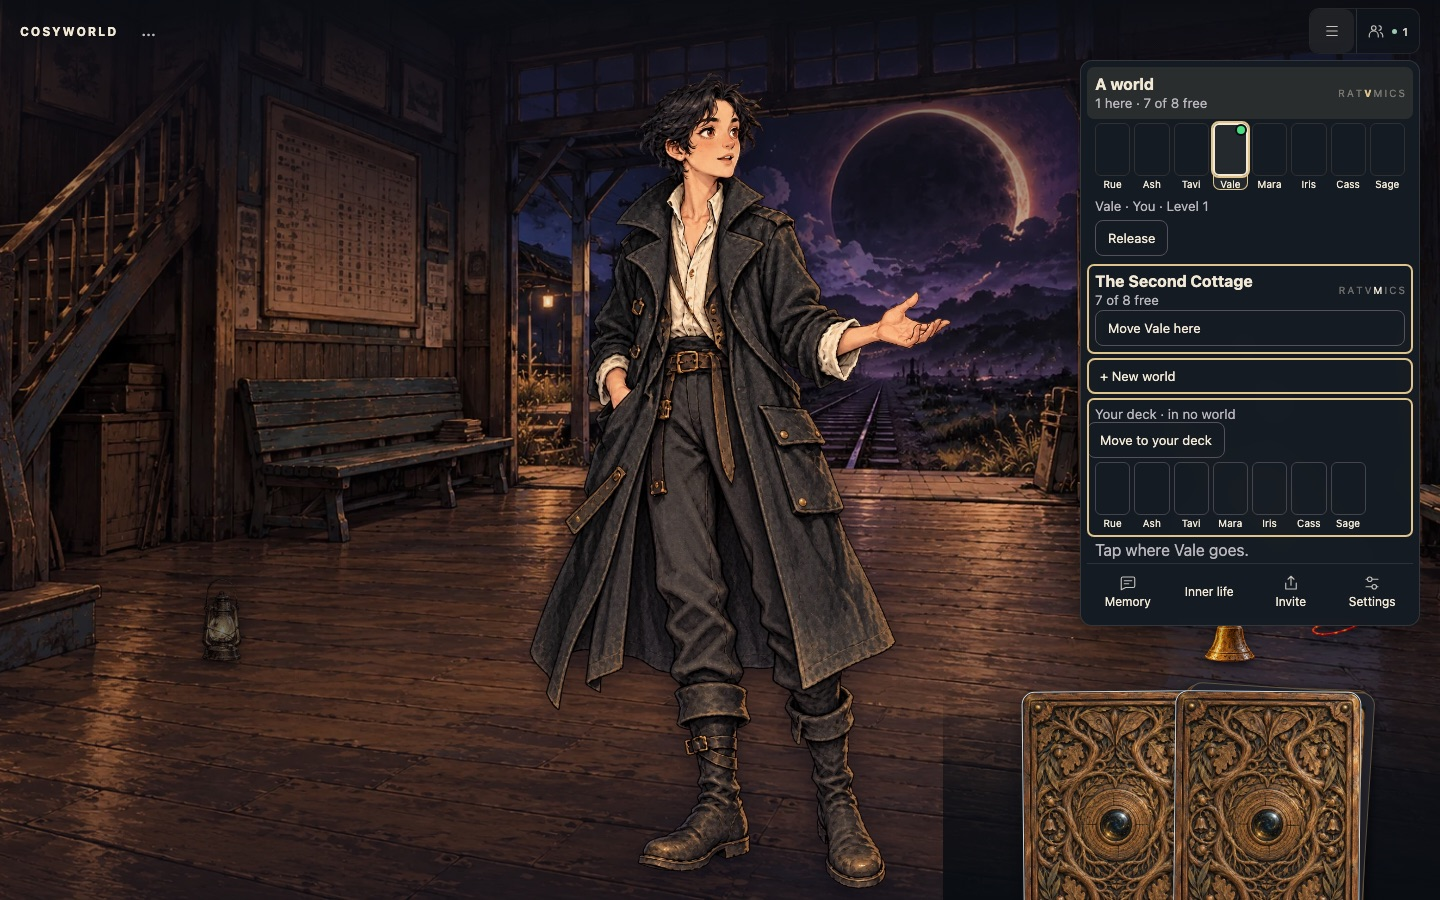
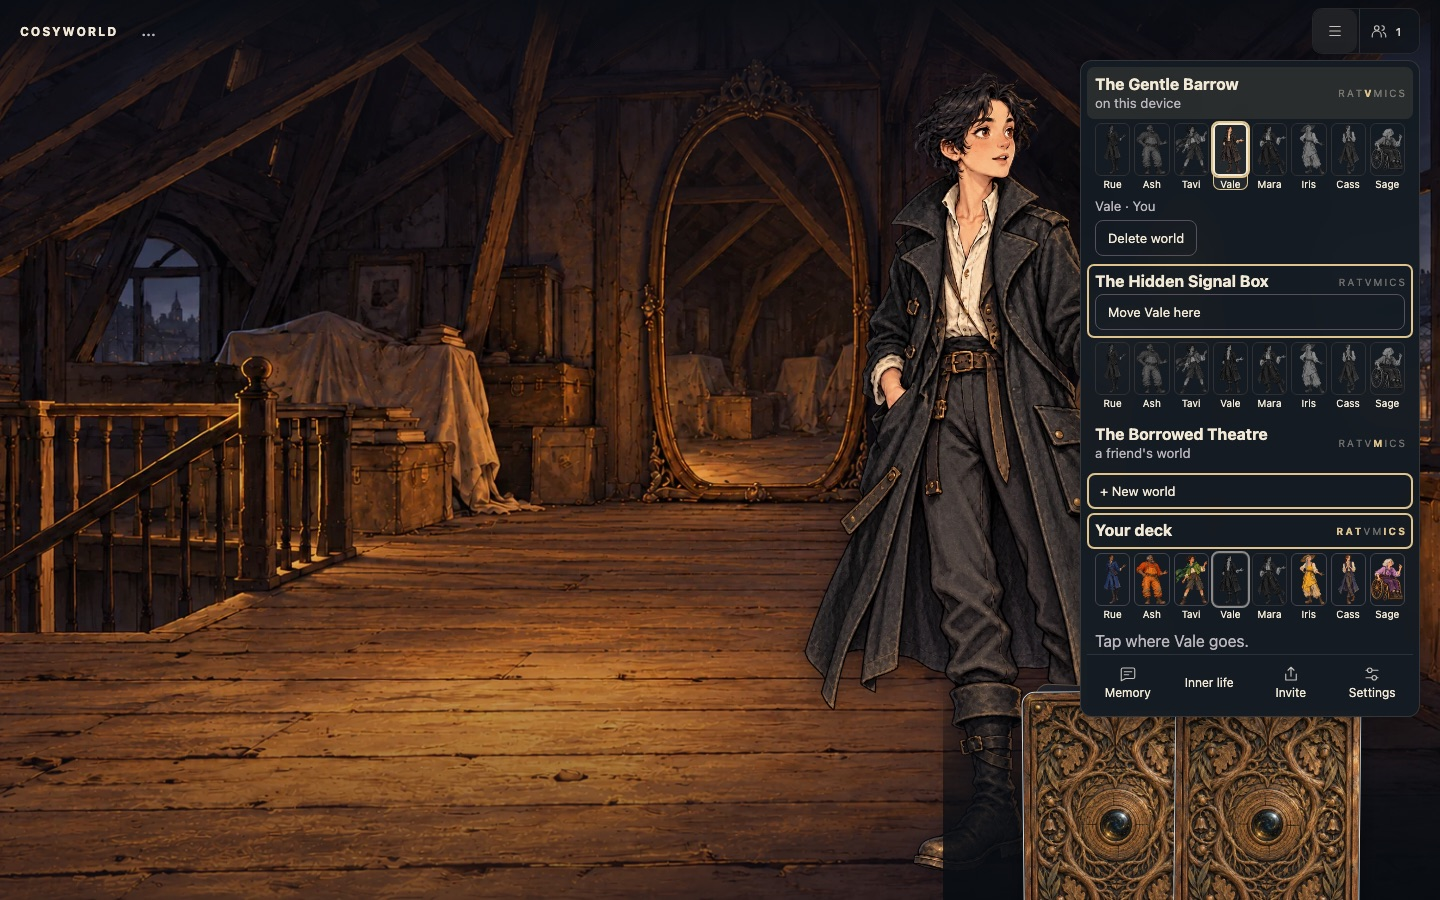
Grey every seat but your own, fold unavailable worlds, and animate the world accordion
Drop the "N here · X of Y free" header line. The deck is a panel like a
world showing the whole cast, and the tapped avatar's grey copy there moves
it to the deck. The seat a passkey is bound to but stepped away from shows
grey. Tapping an avatar on a wide screen folds worlds it cannot go to.
Panels open and fold over 200 ms unless reduced motion is set.

diff --git a/v2/card-game/toolbar.css b/v2/card-game/toolbar.css
@@ -182,9 +182,9 @@ body.local-app #scene-video-button {
   text-align: right;
 }
 
-/* ☰ is an accordion of world slots, then the tools (avatar-menu.mjs). Each
-   world is one line of seats: yours is marked, other humans in colour, the
-   residents of unheld seats in grey, as on the board. */
+/* ☰ is an accordion of world slots and the deck, then the tools
+   (avatar-menu.mjs). Each panel is one line of the whole cast: your avatar
+   that lives there in colour, every other seat in grey. */
 .world-slots summary {
   display: grid;
   grid-template-columns: 1fr auto;
@@ -198,7 +198,6 @@ body.local-app #scene-video-button {
   background: #dfc38d1c;
 }
 .world-slots summary small,
-.avatar-deck > small,
 .seat-note,
 .avatar-status {
   color: var(--muted);
@@ -213,18 +212,20 @@ body.local-app #scene-video-button {
   gap: 2px;
   font-size: 10px;
 }
-.slot-letters .letter-you {
+.slot-letters .letter-you,
+.slot-letters .letter-deck {
   color: var(--gold);
   font-weight: 700;
 }
-.slot-letters .letter-resident {
+.slot-letters .letter-resident,
+.slot-letters .letter-human,
+.slot-letters .letter-away {
   opacity: 0.4;
 }
 .world-menu summary .slot-target {
   grid-column: 1 / -1;
 }
 [data-target="true"] > summary,
-.avatar-deck[data-target="true"],
 .world-menu .slot-new[data-target="true"] {
   outline: 2px solid var(--gold);
   outline-offset: -2px;
@@ -254,16 +255,20 @@ body.local-app #scene-video-button {
   object-fit: cover;
   object-position: 50% 12%;
 }
-[data-kind="resident"] .seat-face img {
+[data-kind="resident"] .seat-face img,
+[data-kind="human"] .seat-face img,
+[data-kind="away"] .seat-face img {
   filter: grayscale(1) brightness(0.7);
 }
-.world-menu [data-kind="resident"] .seat-face:disabled {
+.world-menu [data-kind="resident"] .seat-face:disabled,
+.world-menu [data-kind="away"] .seat-face:disabled {
   opacity: 1;
 }
 [data-kind="you"] .seat-face img {
   border: 2px solid #f3ead6;
 }
-.world-menu .seat-face[aria-pressed="true"] img {
+.world-menu .seat-face[aria-pressed="true"] img,
+.world-menu .seat-face.slot-target img {
   outline: 2px solid var(--gold);
 }
 .table-online {
@@ -276,12 +281,24 @@ body.local-app #scene-video-button {
   background: #4ade80;
   box-shadow: 0 0 0 2px #0b0e16;
 }
-.avatar-deck {
-  padding: 6px 0 0;
-  border-radius: 7px;
-}
-.avatar-deck > small {
-  padding-inline: 8px;
+/* Panels open and fold smoothly where the browser can size to auto. */
+@media (prefers-reduced-motion: no-preference) {
+  .world-slots {
+    interpolate-size: allow-keywords;
+  }
+  .world-slot::details-content {
+    height: 0;
+    overflow: clip;
+    opacity: 0;
+    transition:
+      height 200ms ease,
+      opacity 200ms ease,
+      content-visibility 200ms allow-discrete;
+  }
+  .world-slot[open]::details-content {
+    height: auto;
+    opacity: 1;
+  }
 }
 .avatar-actions {
   display: flex;

diff --git a/v2/docs/card-table/avatar-menu.md b/v2/docs/card-table/avatar-menu.md
@@ -65,21 +65,28 @@ Redesigned in [#1877](https://github.com/cenetex/cosyworld/issues/1877).
   your local worlds, one per avatar. Local play is its own passkey, so the
   two lists never mix. The world being played is always the first slot,
   open, even when it is local and you are signed in ("on this device").
-- **Each slot** is a header (the name, "3 here · 4 of 8 free", and a letter
-  strip R·A·T·V·M·I·C·S) and one line of its eight seats, as on the board:
-  your one avatar there is marked yours, other humans are in colour with a
-  green dot while here, and the residents of unheld seats are in grey. On a
+- **Each slot** is a header (the name, "a friend's world" or "invited" where
+  that applies, and a letter strip R·A·T·V·M·I·C·S) and one line of its
+  eight seats. Only your avatar that lives there is in colour; every other
+  seat is grey: other humans (with a green dot while here), the residents of
+  unheld seats, and the seat you are bound to but stepped away from (owner,
+  2026-11-01). The seats say who is here, so the header has no count. On a
   phone only one slot is open at a time, and the tools (Memory, Inner life,
   Invite, Settings) stay pinned at the bottom.
+- Panels open and fold over 200 ms (height and opacity), and at once with
+  reduced motion. Only the player folds a panel, except that tapping an
+  avatar on a wide screen folds the worlds it cannot go to and opens the
+  ones it can.
 - **+ New world** follows the slots while one is free. Signed in it makes a
   shared world; signed out a local one. On the world being played locally,
   it is the table's own New game ("Start a fresh world?").
-- **Your deck** lists your avatars that are in no world.
+- **Your deck** is a panel like a world, with the whole cast in the same
+  order: your avatars in no world in colour, the others grey.
 
 Each avatar appears once. **Tap one of your avatars** (in a slot or the deck)
-and the places it can go light up: your deck ("Move to your deck"), every
-slot whose seat for it is free and that holds none of your avatars ("Move
-*Vale* here"), and + New world. Tap one to move it there. A claim anywhere
+and the places it can go light up: your deck, where its grey copy moves it
+there, every slot whose seat for it is free and that holds none of your
+avatars ("Move *Vale* here"), and + New world. Tap one to move it there. A claim anywhere
 frees its old seat and carries its level (#1870). Moving out of a local
 world asks with a second tap, because that world is lost: "*Hollowmere* will
 be lost, with Mara's level and quest there. There is no way back to it."
@@ -126,7 +133,7 @@ past or visited worlds. `v2/scripts/smoke-card-world-slots.mjs` taps an
 avatar, checks the lit targets and moves it, at 390 and 1440 pixels.
 
 Vale tapped in the world being played, with the deck, a free slot and + New
-world lit:
+world lit. Vale is grey everywhere but its own world:
 
 ![Phone: Vale's targets](avatar-menu/slots-move-390.jpg)
 ![Desktop: Vale's targets](avatar-menu/slots-move-1440.jpg)
@@ -149,15 +156,15 @@ Desktop (1440 × 900):
 
 ### Words
 
-Play, Release, Free, Delete world, + New world, Your deck, Move to your
-deck, Move *Vale* here, Tap where *Vale* goes, on this device, a friend's
+Play, Release, Free, Delete world, + New world, Your deck, Move *Vale* here, Tap where *Vale* goes, on this device, a friend's
 world, invited, You, Memory, Inner life, Invite, Settings. Gone: Worlds,
 Share, Your worlds (`/?shared=1` opens the table), Continue as, Continue
 shared world, Return to my game, Send to…, Step away, Join, Choose your
 avatar, Return as *Mara*, Move *Mara* here?, This world is full (panel), A
 place will open shortly, Leave, Refresh avatars, the avatar list under the
 seats, Release this avatar, Leave this room, Players in this world, Claimed,
-open seat, "The reflected shore · N avatars available".
+open seat, "The reflected shore · N avatars available", "3 here · 4 of 8
+free", the Move to your deck button, Your deck · in no world.
 
 ## Later: the cast ledger
 
